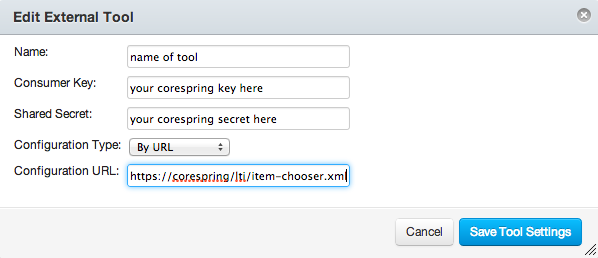
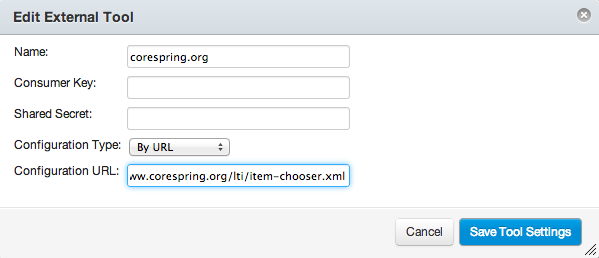
updated canvas docs with match by domain

diff --git a/public/developer/js/corespring/directives.js b/public/developer/js/corespring/directives.js
@@ -33,7 +33,7 @@ com.cs.utils.syntaxHighlightJson = function(data) {
 };
 
 
-com.cs.utils.xmlToString = function(xmlData) { 
+com.cs.utils.xmlToString = function(xmlData) {
   var xmlString;
   //IE
   if (window.ActiveXObject){
@@ -44,7 +44,7 @@ com.cs.utils.xmlToString = function(xmlData) {
       xmlString = (new XMLSerializer()).serializeToString(xmlData);
   }
   return xmlString;
-}   
+}
 
 
 angular.module('cs.directives').directive('jsonHighlight', function($http) {
@@ -80,14 +80,14 @@ angular.module('cs.directives').directive('jsonHighlight', function($http) {
  * @param disabled - locks the ui if true and adds a 'coming soon' label
  * @param method - GET|POST|PUT|DELETE - the http method to use
  * @param path - the path to show to the user (for display only)
- * @param url - the url to use to make the call to the server 
+ * @param url - the url to use to make the call to the server
  * @requestBody - the data to send as part of the requestBody - adds a text area so the user can edit it.
  * @requestHeaders - a & delimited list of request headers to add to the call - shown to the user in a text input
  * @formParams - a & delimited list of form parameters for the request - shown to the user as text inputs.
  */
 angular.module('cs.directives').directive('restWidget', function($http,$rootScope) {
 
-  var definition = {   
+  var definition = {
     replace: true,
     restrict:'E',
     transclude: true,
@@ -148,7 +148,7 @@ angular.module('cs.directives').directive('restWidget', function($http,$rootScop
           }
 
           var splitted = formParamString.split("&")
-          
+
           var out = _.map( splitted, function(item){
 
             if( !item || item == "") {
@@ -163,12 +163,33 @@ angular.module('cs.directives').directive('restWidget', function($http,$rootScop
         }
 
         scope.formParams =  buildFormParams( (attrs["formParams"] || "") );
-
+          //test if the form param contain client id and secret. if so, then we know this widget is the access token widget
+          var hasClientIdAndSecret = function(){
+              var hasClientSecret = typeof _.find(scope.formParams,function(formParam){
+                  return formParam.name === "client_secret"
+              }) !== "undefined"
+              var hasClientId = typeof _.find(scope.formParams,function(formParam){
+                  return formParam.name === "client_id"
+              }) !== "undefined"
+              return hasClientSecret && hasClientId
+          }
+          if(hasClientIdAndSecret()){
+              //set the broadcast receiver to set the form params once the api client has been received
+              scope.$on('setApiClient',function(){
+                  if($rootScope.apiClient){
+                      scope.formParams = [
+                          {name: "client_id", value: $rootScope.apiClient.clientId},
+                          {name: "client_secret", value: $rootScope.apiClient.clientSecret}
+                      ]
+                  }
+              })
+          }
         scope.onSuccess = function( result ){
+
           scope.loading = false;
           if(result.access_token){
-            $rootScope.access_token = result.access_token
-            $rootScope.$broadcast('insertAccessToken')
+              $rootScope.access_token = result.access_token
+              $rootScope.$broadcast('insertAccessToken')
           }
           var body = ( scope.resultType == "xml" ) ? com.cs.utils.xmlToString(result) : com.cs.utils.syntaxHighlightJson(result);
           scope.$apply( function() {
@@ -193,7 +214,7 @@ angular.module('cs.directives').directive('restWidget', function($http,$rootScop
 
           var error = validJson(jqXHR.responseText) ? jqXHR.responseText : errorThrown.toString();
           $(element).find('#responseBox').html( error );
-        }; 
+        };
 
         scope.addDotsIntervalId = -1;
 
@@ -213,10 +234,10 @@ angular.module('cs.directives').directive('restWidget', function($http,$rootScop
 
         scope.executeCall = function(){
           var url = $inputField.val();
-          
+
 
           $.support.cors = true;
-          
+
           scope.loading = true;
 
           scope.$apply( function(){
@@ -232,24 +253,24 @@ angular.module('cs.directives').directive('restWidget', function($http,$rootScop
             //cache:false,
             success: function( result ) { scope.onSuccess.call(scope, result ) },
             error: function(jqXHR, textStatus, errorThrown){ scope.onError.call(scope, jqXHR, textStatus, errorThrown)},
-            dataType: scope.resultType, 
+            dataType: scope.resultType,
             beforeSend: function(request){
               // special header to let the server know to ignore user session
               request.setRequestHeader("CoreSpring-IgnoreSession", "true");
-              
+
               if( scope.requestHeaders ){
 
                 var headers = scope.requestHeaders.split("&");
 
                 _.each(headers, function(h){
-                  
+
                   if( !h && h.indexOf(":") == -1){
                     return;
                   }
 
                   var splitHeader = h.split(":");
                   request.setRequestHeader( splitHeader[0], splitHeader[1] );
-                });    
+                });
               }
             }
           };
@@ -267,7 +288,7 @@ angular.module('cs.directives').directive('restWidget', function($http,$rootScop
               for(var i = 0; i < scope.formParams.length; i++){
                 var item = scope.formParams[i];
                 request.data[item.name] = item.value;
-              } 
+              }
 
             }
           }
@@ -275,27 +296,27 @@ angular.module('cs.directives').directive('restWidget', function($http,$rootScop
           $.ajax(request);
         };
 
-        var url = attrs["url"];
-        var insertAccessToken = function(){
-          if($rootScope.access_token){
-            var atindex = url.indexOf("access_token=")
-            if(atindex != -1){
-              var endindex = url.indexOf("&",atindex)
-              if(endindex == -1) {
-                var oldat = url.substring(atindex+13)
-                return url.replace(oldat,$rootScope.access_token)
-              }else{
-                var oldat = url.substring(atindex+13,endindex)
-                return url.replace(oldat,$rootScope.access_token)
+          var url = attrs["url"];
+          var insertAccessToken = function(){
+              if($rootScope.access_token){
+                  var atindex = url.indexOf("access_token=")
+                  if(atindex != -1){
+                      var endindex = url.indexOf("&",atindex)
+                      if(endindex == -1) {
+                          var oldat = url.substring(atindex+13)
+                          return url.replace(oldat,$rootScope.access_token)
+                      }else{
+                          var oldat = url.substring(atindex+13,endindex)
+                          return url.replace(oldat,$rootScope.access_token)
+                      }
+                  }
               }
-            }
+              return url
           }
-          return url
-        }
-        $(element).find("#urlInput").val(insertAccessToken());
-        scope.$on('insertAccessToken', function(){
-            $(element).find('#urlInput').val(insertAccessToken())
-        });
+          $(element).find("#urlInput").val(insertAccessToken());
+          scope.$on('insertAccessToken', function(){
+              $(element).find('#urlInput').val(insertAccessToken())
+          });
 
         var responseDiv = "<div style='width:100%; height: 200px;'></div>";
         scope.showRunner = false;

diff --git a/public/developer/js/corespring/app.js b/public/developer/js/corespring/app.js
@@ -15,7 +15,7 @@ angular.module('corespring-dev').factory("Developer", ['$resource',function($res
         }
     );
 }]);
-function DeveloperCtrl($scope,Developer) {
+function DeveloperCtrl($scope,$http,$rootScope,Developer) {
     //noauth = not logged in
     //noorg = logged in but not registered with an organization
     //registered= logged in and registered with an organization
@@ -31,9 +31,15 @@ function DeveloperCtrl($scope,Developer) {
                 Developer.getOrg({},function(org){
                     $scope.org = org;
                     $scope.authState = "registered"
+                    $http.post('/auth/register',{organization: org.id}).success(function(data,status,headers,config){
+                        if(data.client_id && data.client_secret){
+                            $rootScope.apiClient = {clientId: data.client_id, clientSecret: data.client_secret}
+                            $rootScope.$broadcast('setApiClient')
+                        }
+                    });
                 }) ;
             } else $scope.authState = "noauth";
         });
     })();
 }
-DeveloperCtrl.$inject = ['$scope','Developer'];
+DeveloperCtrl.$inject = ['$scope','$http','$rootScope','Developer'];

diff --git a/public/developer/canvas-integration.html b/public/developer/canvas-integration.html
@@ -211,11 +211,21 @@
 
 
 <p>For the url use:
-<em>https://corespring.org/lti/item-chooser.xml</em></p>
+<em>http://www.corespring.org/lti/item-chooser.xml</em></p>
 
 <ul>
 <li>Click 'Save tool settings'</li>
+<li>Click the edit button to edit the tool settings</li>
+<li>Add 'corespring.org' in the Match By Domain input</li>
 </ul>
+
+
+<br/>
+
+
+<p><img src="/developer/images/canvas/external_tool_1_1.png"/></p>
+
+<br/>
 
 
 <h2>Use the tool for the first time</h2>

diff --git a/public/developer/index.html b/public/developer/index.html
@@ -1112,7 +1112,7 @@ For example, if you only wanted the Item Title and Primary Subject Fields for th
 
 <hr />
 
-<p>date:  01/10/2013 03:30PM</p>
+<p>date:  01/11/2013 10:11PM</p>
 
     </div>
     <div class="dev-login-box" ng-controller="DeveloperCtrl">
